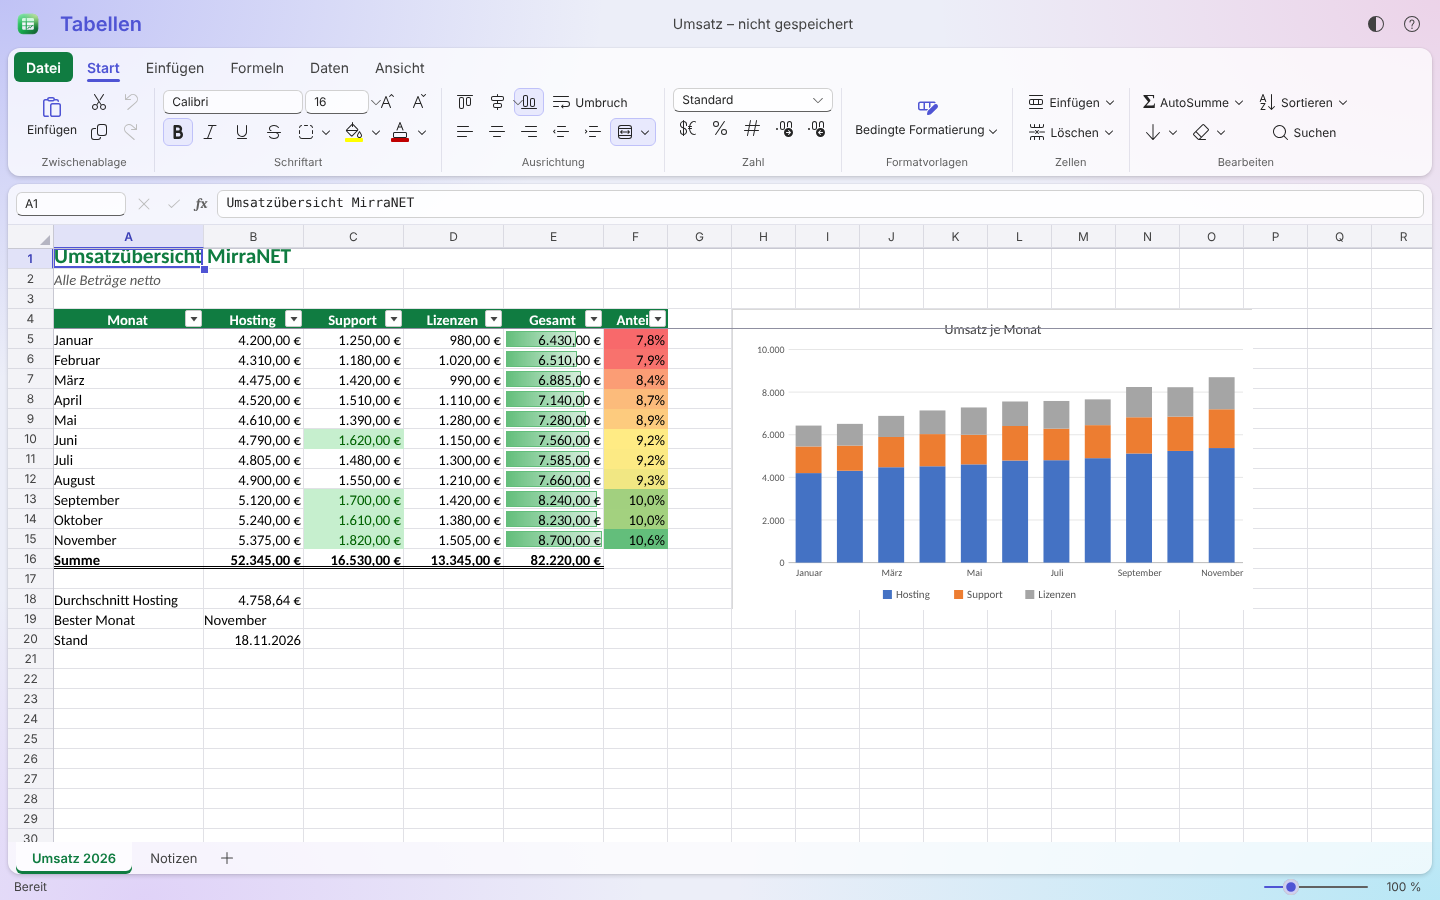
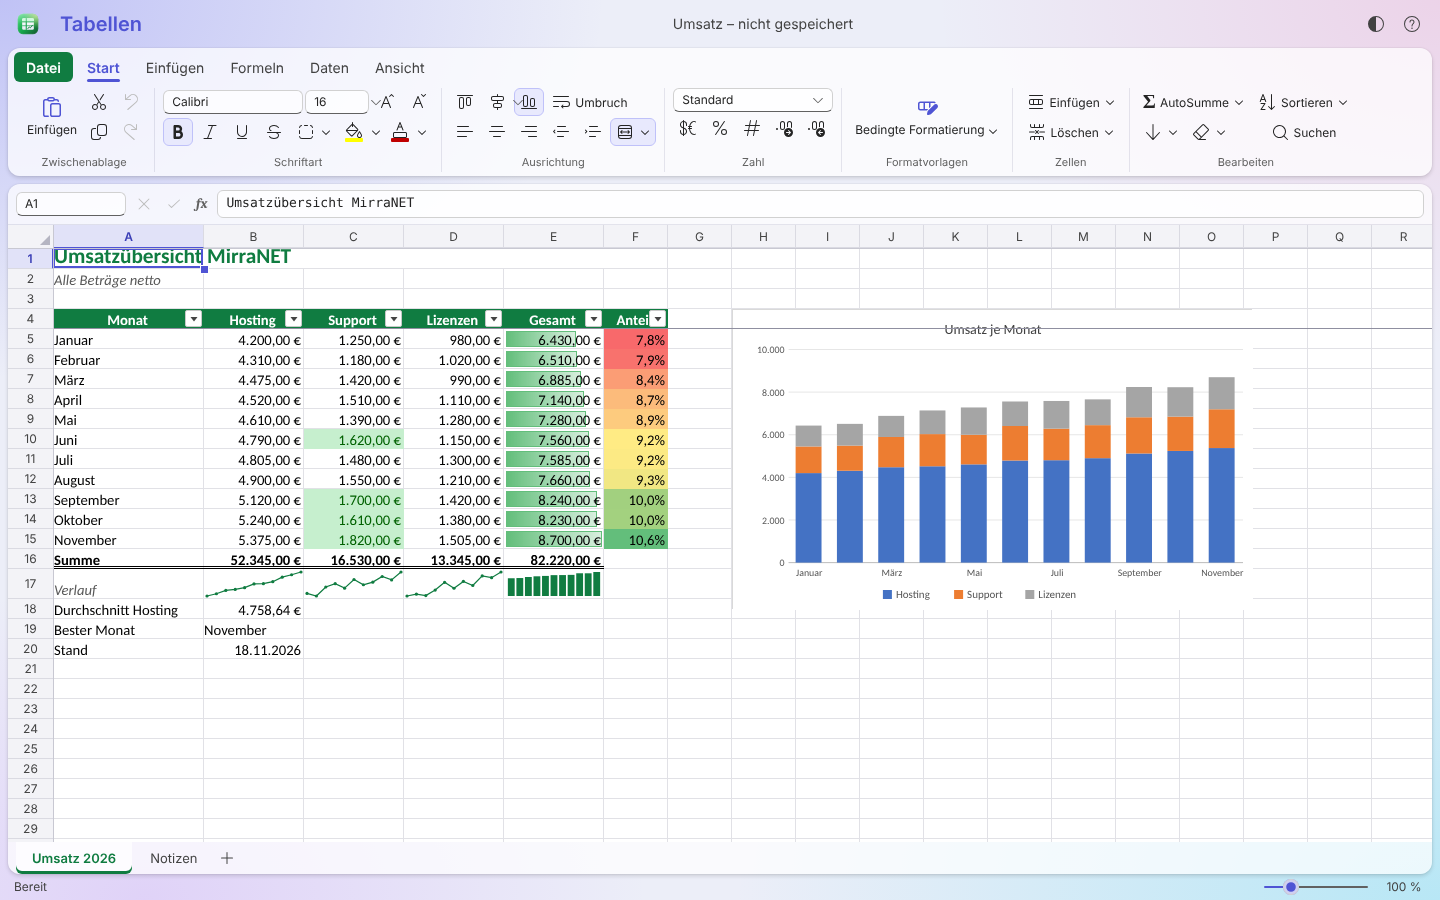
README: OpenDocument, new office features, screenshots

Changed region(s): [[0.0, 0.6222, 0.9688, 0.9333]]

diff --git a/apps/nexora/src/apps/text/sample.ts b/apps/nexora/src/apps/text/sample.ts
@@ -6,7 +6,7 @@ export function sampleDocument(): TextDocument {
   return {
     page: { ...A4 },
     title: "Projektbericht",
-    comments: [{ id: 1, author: "Niklas Linz", date: "2026-11-18T07:05:00Z", text: "Auch ODF (.odt) später ergänzen?" }],
+    comments: [{ id: 1, author: "Niklas Linz", date: "2026-11-18T07:05:00Z", text: "LibreOffice (.odt, .ods, .odp) ist jetzt auch dabei." }],
     author: "Niklas Linz",
     header: [{ type: "paragraph", align: "right", content: [t("MirraNET · Projektbericht Nexora")] }],
     footer: [{ type: "paragraph", align: "center", content: [t("Seite "), { type: "field", field: "page" }, t(" von "), { type: "field", field: "pages" }] }],
@@ -27,7 +27,7 @@ export function sampleDocument(): TextDocument {
           t("Tabellen", { italic: true }),
           t(" und "),
           t("Präsentation", { italic: true }),
-          t(". Alle Apps lesen und schreiben die Formate von Microsoft Office "),
+          t(". Alle Apps lesen und schreiben die Formate von Microsoft Office und LibreOffice "),
           t("direkt", { comment: 1 }),
           { type: "footnote", text: "Unterstützt werden .docx, .xlsx und .pptx (Office Open XML)." },
           t(" – "),

diff --git a/README.md b/README.md
@@ -15,15 +15,15 @@ An office suite for **Windows and Linux**, written in **Rust**, with a user inte
 | ├ Kalender: day, work week, week, month, recurring events, reminders | |
 | ├ Kontakte: address books, vCard import, address completion when writing mail | |
 | └ Aufgaben: task lists in the style of Microsoft To Do | |
-| **Nexora Text**: word processor with a Word-like page view, comments, tracked changes, footnotes and table of contents, `.docx` | 🚧 first version |
-| **Nexora Tabellen**: spreadsheets with ~180 functions, charts, conditional formatting, filters and named ranges, `.xlsx` | 🚧 first version |
-| **Nexora Präsentation**: slides with tables, charts, animations and transitions, slide show and presenter view, `.pptx` | 🚧 first version |
+| **Nexora Text**: word processor with a Word-like page view, comments, tracked changes, footnotes/endnotes, sections and table of contents, `.docx` and `.odt` | 🚧 first version |
+| **Nexora Tabellen**: spreadsheets with ~180 functions, charts, pivot tables, sparklines, data validation, conditional formatting, filters and named ranges, `.xlsx` and `.ods` | 🚧 first version |
+| **Nexora Präsentation**: slides with tables, charts, audio/video, entrance/emphasis/exit animations and transitions, slide show and presenter view, `.pptx` and `.odp` | 🚧 first version |
 
 | Text | Tabellen | Präsentation |
 | --- | --- | --- |
 | ![Text](docs/screenshots/text.png) | ![Tabellen](docs/screenshots/sheets.png) | ![Präsentation](docs/screenshots/slides.png) |
 
-The office apps read and write the Microsoft Office formats directly (no conversion step) and export PDF files (*Datei › Als PDF exportieren*). What a file contains beyond the apps' model (SmartArt, emphasis animations, …) is listed under *Datei › Informationen* when the file is opened.
+The office apps read and write the Microsoft Office formats and the OpenDocument formats of LibreOffice directly (no conversion step) and export PDF files (*Datei › Als PDF exportieren*). What a file contains beyond the apps' model (e.g. motion paths, charts in OpenDocument files) is listed under *Datei › Informationen* when the file is opened; a save in the OpenDocument format says what it could not keep. SmartArt is shown as the individual shapes of its stored drawing.
 
 | Dark mode | Nexora Setup (Windows) |
 | --- | --- |
@@ -214,10 +214,13 @@ Next:
 - [x] Präsentation: tables and charts on slides, animations and transitions
 - [x] Direct PDF export (WebView2 `PrintToPdf` on Windows, WebKitGTK print operation on Linux)
 - [x] Installer: system-wide installation, Orbit on its own or together with the office apps
+- [x] Text: page and section breaks with different page layouts, endnotes
+- [x] Tabellen: pivot tables, data validation, sparklines
+- [x] Präsentation: emphasis/exit animations, SmartArt (as shapes), audio and video
+- [x] OpenDocument formats (`.odt`, `.ods`, `.odp`)
 
 Next:
 
-- [ ] Text: page and section breaks with different page layouts, endnotes
-- [ ] Tabellen: pivot tables, data validation, sparklines
-- [ ] Präsentation: emphasis/exit animations, SmartArt, audio and video
-- [ ] OpenDocument formats (`.odt`, `.ods`, `.odp`)
+- [ ] OpenDocument: charts, pictures, conditional formatting and validation in `.ods`
+- [ ] Präsentation: motion paths, editable SmartArt
+- [ ] Tabellen: grouping and filters in pivot tables
